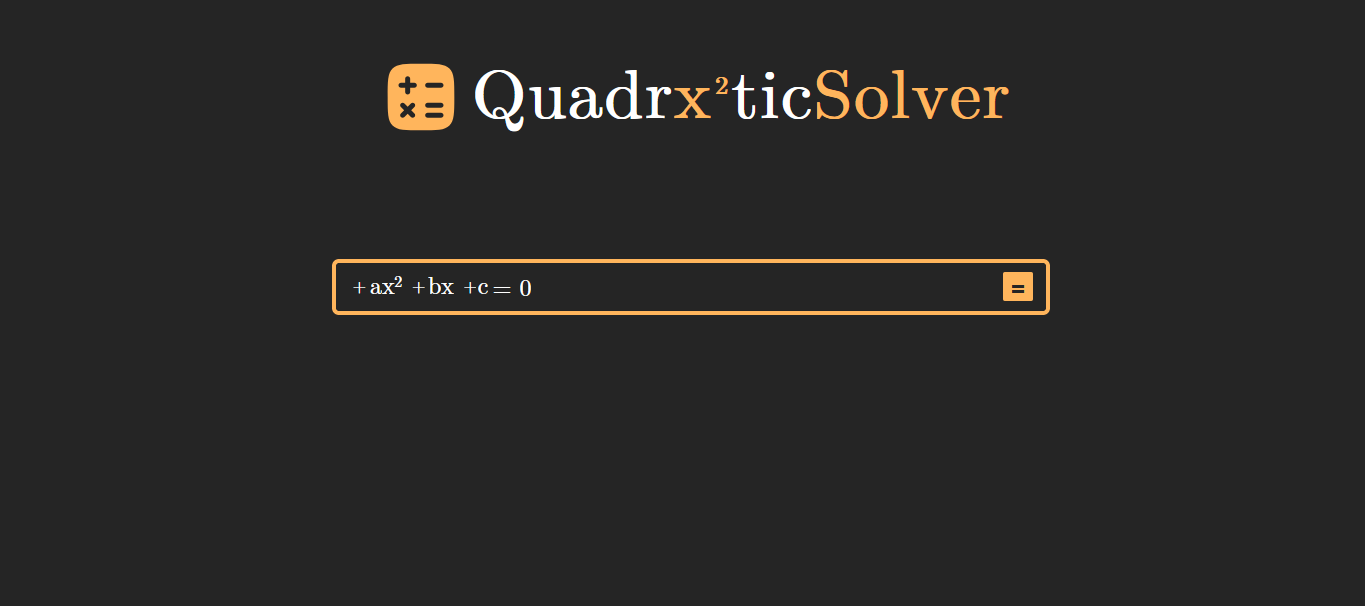
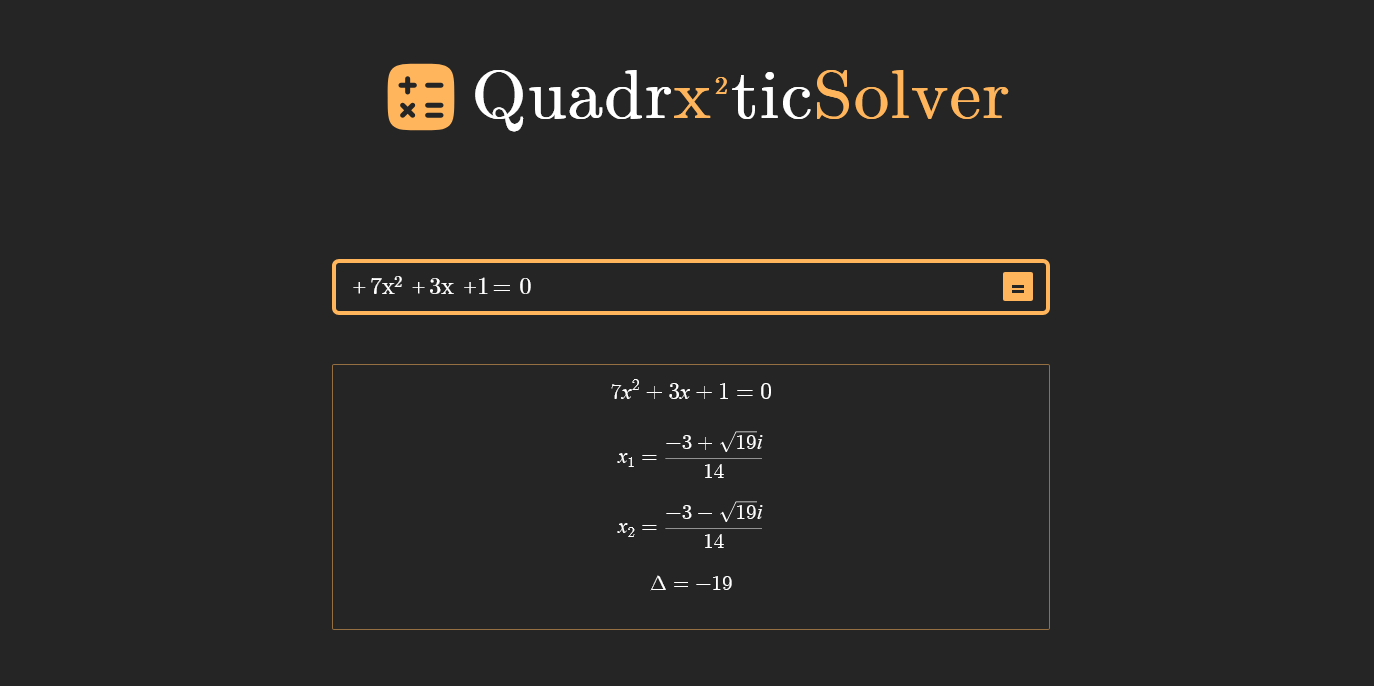
Minor changes and bugs fixed

diff --git a/index.html b/index.html
@@ -8,7 +8,7 @@
       import { LaTeXJSComponent } from "https://cdn.jsdelivr.net/npm/latex.js/dist/latex.mjs";
       customElements.define("latex-js", LaTeXJSComponent);
     </script>
-    <link rel="stylesheet" href="css/styles.css">
+    <link rel="stylesheet" href="css/styles.css" />
   </head>
 
   <body>
@@ -97,7 +97,7 @@
             <latex-js>$$\Delta=$$</latex-js>
           </div>
         </div>
-        <div id="graph-box">
+        <div id="graph-box" class="hidden">
           <h4>Graphic:</h4>
           <div id="graph"></div>
         </div>

diff --git a/js/dom.js b/js/dom.js
@@ -73,7 +73,7 @@ function setResultBox(a, d) {
   for (i in resultDOMData) {
     resultDOMData[i].innerHTML = "";
   }
-  let labels = ["x_{1}", "x_{2}", "\\Delta"];
+  let labels = [`${chosenletter}_{1}`, `${chosenletter}_{2}`, "\\Delta"];
   let data = [a, d].flat().forEach(function (value, index) {
     let latexHTML = document.createElement("latex-js");
     latexHTML.innerText = `$$\\Large{${labels[index]}=${value}}$$`;
@@ -87,4 +87,3 @@ function scrollTo(element) {
     block: "start",
   });
 }
-

diff --git a/css/styles.css b/css/styles.css
@@ -69,10 +69,6 @@
         padding-block: none;
         padding-inline: none;
       }
-      #zero-span {
-        position: relative;
-        top: 2px;
-      }
       #input sup {
         position: relative;
         right: 7px;
@@ -135,7 +131,7 @@
         grid-template-rows: 8vh 1fr;
       }
       .hidden {
-        display: none;
+        display: none !important;
       }
       #results {
         display: grid;

diff --git a/readme.md b/readme.md
@@ -19,7 +19,7 @@ Instead of behaving like a typical calculator, this application aims to present 
 
 ## Preview
 
-![Preview](images/screenshoot.png)
+![Preview](images/screenshot.png)
 Live Demo: https://samuel-fsilva.github.io/Quadratic-Solver/
 
 ---
